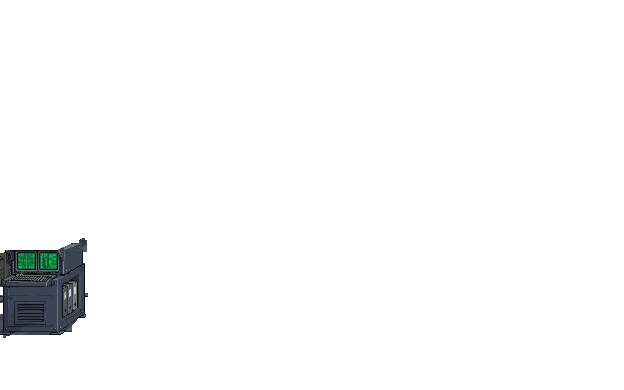
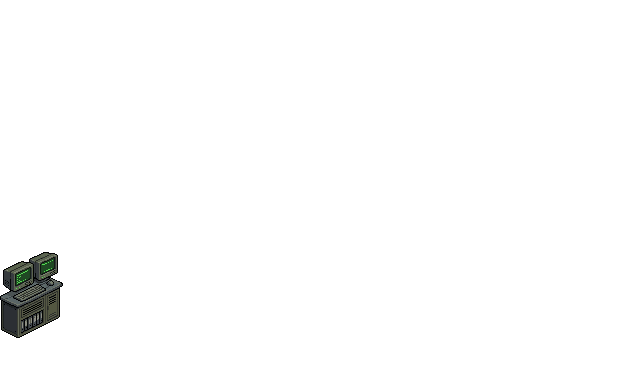
Steam store art and screenshots; War Room side stations redrawn
- Steam capsules: small, vertical, library capsule, library hero and library logo (art_src/steam_capsules, logo.py)
- tools/steam_screenshots.sh + Screenshot.tscn --store (no Feedback buttons or build label, mouse kept off the hand in fights)
- War Room: Directives is a lit wall screen over Bay 3 (DIRECTIVE_ROWS moved), new Livery Bay rack and Info Bay /
  Pilot Log terminals angled from the R&D shelf, R&D shelf without its floating hologram (art_src/warroom_right)

Claude-Session: https://claude.ai/code/session_01W7zBL8mBLAcEAZYg5R9hxA

Changed region(s): [[0.0, 0.6154, 0.1522, 0.8615]]

diff --git a/art_src/warroom_right/build.py b/art_src/warroom_right/build.py
@@ -1,0 +1,49 @@
+# The War Room's right side (PixelLab, 2026-11-11), placed into the room's layers.
+# Livery Bay starts from the left side's Research Bay, mirrored onto the
+# right wall (in_livery.png), then repainted by PixelLab edit_image (e_livery2.png),
+# so it stands against the side wall facing the war table like the left side's.
+# Directives is a PixelLab Pro piece (scr_0.png). try1/, try2/ and cands/ hold
+# earlier attempts.
+from PIL import Image
+A = '../../assets/warroom/'
+F3 = {'D':["110","101","101","101","110"], 'I':["111","010","010","010","111"], 'R':["110","101","110","101","101"],
+      'E':["111","100","110","100","111"], 'C':["011","100","100","100","011"], 'T':["111","010","010","010","010"],
+      'V':["101","101","101","101","010"], 'S':["011","100","010","001","110"]}
+def stencil(img, text, cx, y, ink, shadow):
+    w = len(text) * 4 - 1; x0 = cx - w // 2
+    for i, ch in enumerate(text):
+        for r, row in enumerate(F3[ch]):
+            for c, bit in enumerate(row):
+                if bit == '1':
+                    img.putpixel((x0 + i * 4 + c, y + r + 1), shadow)
+        for r, row in enumerate(F3[ch]):
+            for c, bit in enumerate(row):
+                if bit == '1':
+                    img.putpixel((x0 + i * 4 + c, y + r), ink)
+# Directives: a wall screen (PixelLab Pro, scr_0.png), stretched to the bay's height by repeating a band
+# of its glass, the glass darkened so the dailies read, then the header stenciled. Drawn at Rect2(437, 124, 120, 116).
+import numpy as np
+src = np.asarray(Image.open('scr_0.png').convert('RGBA'))[2:105]          # its 103 rows
+tall = np.concatenate([src[:62], src[49:62], src[62:]])                    # + 13 glass rows = 116
+r, g, b = (tall[..., i].astype(int) for i in range(3))
+glass = np.zeros(r.shape, bool); glass[21:101, 18:102] = True
+dim = glass & (g - r > 40) & (b - r > 40) & (g < 170)                     # the glass, not its lit edge strips
+tall = tall.copy(); tall[dim, :3] = (tall[dim, :3] * 0.42).astype(np.uint8)
+board = Image.new('RGBA', (120, 116)); board.alpha_composite(Image.fromarray(tall), (1, 0))
+stencil(board, "DIRECTIVES", 60, 25, (120, 235, 255, 255), (8, 40, 48, 255)) # the screen's title, lit
+board.save(A + 'directives.png')
+def layer(piece, x, y, out):
+    canvas = Image.new('RGBA', (624, 390), (0, 0, 0, 0))
+    canvas.alpha_composite(Image.open(piece).convert('RGBA'), (x, y))
+    canvas.save(A + out)
+layer('e_livery2.png', 560, 122, 'livery_bay.png')
+# The two wall terminals start from the R&D shelf's lower part (in_lterm.png; mirrored for the right wall,
+# in_rterm.png), so they keep its angle, skew and edge crop; PixelLab edit_image turned them into terminals
+# (e_lterm2.png, e_rterm3.png; the cut-off shelf top fixed in a second edit, a stray fleck dropped).
+canvas = Image.new('RGBA', (624, 390)); t = Image.open('e_rterm3.png').convert('RGBA')
+canvas.paste(t, (624 - t.width, 340 - t.height), t); canvas.save(A + 'pilot_log.png')
+canvas = Image.new('RGBA', (624, 390)); t = Image.open('e_lterm2.png').convert('RGBA'); t = t.crop((0, 0, 64, 86))
+canvas.paste(t, (0, 338 - t.height), t); canvas.save(A + 'info_bay.png')
+# R&D shelf: the original (old_research_bay.png) with its floating hologram removed by PixelLab (e_rnd.png).
+canvas = Image.new('RGBA', (624, 390)); t = Image.open('e_rnd.png').convert('RGBA')
+canvas.paste(t, (0, 122), t); canvas.save(A + 'research_bay.png')

diff --git a/art_src/steam_capsules/src/logo.py b/art_src/steam_capsules/src/logo.py
@@ -1,0 +1,39 @@
+# Steam library logo: the capsules' hologram title on a transparent background.
+# Drawn on a 1x pixel grid, then scaled 2x nearest (same grid as the capsules). Usage: python logo.py out.png [s1 s2]
+import sys, numpy as np
+from PIL import Image, ImageFilter
+from holo import text_mask
+
+def logo(out_path, s1=9, s2=9, hue=(120,235,255), pad=14):
+    hue=np.array(hue,float)
+    m1=text_mask("COLLIMATORS:",s1); m2=text_mask("FRONTLINES",s2)
+    W=max(m1.shape[1],m2.shape[1])+pad*2
+    gap=s1*2+1
+    H=m1.shape[0]+gap+m2.shape[0]+pad*2
+    mask=np.zeros((H,W),bool)
+    top=pad; x1=(W-m1.shape[1])//2; mask[top:top+m1.shape[0],x1:x1+m1.shape[1]]|=m1
+    t2=top+m1.shape[0]+gap; x2=(W-m2.shape[1])//2
+    mask[t2:t2+m2.shape[0],x2:x2+m2.shape[1]]|=m2
+    # the capsules' glitch: one row of each line slips sideways
+    for r,dx in ((top+s1*3,2),(t2+s2*4+1,-2)): mask[r]=np.roll(mask[r],dx)
+    ys,_=np.mgrid[0:H,0:W]
+    rgb=np.zeros((H,W,3)); a=np.zeros((H,W))
+    mi=Image.fromarray(mask.astype(np.uint8)*255)
+    glow=np.asarray(mi.filter(ImageFilter.GaussianBlur(5))).astype(float)/255
+    ga=np.clip(glow*0.75,0,1)
+    rgb[:]=hue; a=ga
+    ring=(np.asarray(mi.filter(ImageFilter.MaxFilter(3)))>0)&~mask
+    rgb[ring]=np.array([8,40,60]); a=np.where(ring,0.9,a)
+    base=np.where(ys%2==0,1.0,0.74)
+    col=hue[None,None,:]*base[...,None]
+    hi=np.zeros((H,W),bool); hi[top:top+s1]=True; hi[t2:t2+s2]=True
+    col[hi]=np.array([220,252,255])
+    rgb[mask]=col[mask]; a=np.where(mask,1.0,a)
+    img=Image.fromarray(np.dstack([np.clip(rgb,0,255),np.clip(a*255,0,255)]).astype(np.uint8),"RGBA")
+    img=img.resize((W*2,H*2),Image.NEAREST)
+    img.save(out_path)
+    return img
+
+if __name__=="__main__":
+    s=list(map(int,sys.argv[2:4])) if len(sys.argv)>3 else [9,9]
+    im=logo(sys.argv[1],*s); print(im.size)

diff --git a/art_src/README.md b/art_src/README.md
@@ -5,5 +5,14 @@ Working files behind shipped art, kept in git so they're on every machine.
 
 - `discord_sign/` — the War Room's "Join the Discord!" sign: PixelLab plate, `stamp.py`
   (stamps the logo and lettering), candidates. The shipped art is `assets/warroom/discord_sign.png`.
-- `steam_capsules/` — Steam store capsules: `header_capsule_920x430.png`,
-  `main_capsule_1232x706.png` (current), `old/` (earlier A/B), `src/` (scenes, guides, scripts).
+- `steam_capsules/` — Steam store art: `header_capsule_920x430.png`, `main_capsule_1232x706.png`,
+  `small_capsule_462x174.png`, `vertical_capsule_748x896.png`, `library_capsule_600x900.png`,
+  `library_hero_3840x1240.png` (no title; Steam lays the logo over it), `library_logo.png` (transparent title),
+  `old/` (earlier A/B), `src/` (PixelLab scenes `scene_*.png` at half size, guides, scripts). Capsules are a
+  half-size PixelLab Pro scene (main scene `sceneA2.png` as reference), cropped, titled by `holo3.py`'s
+  `compose(..., panel=False)`, then ×2 nearest; the hero is ×5; `logo.py` draws the logo.
+- `steam_screenshots/` — the Steam page's screenshots at 1920×1080, made by `tools/steam_screenshots.sh`
+  (`tools/Screenshot.tscn --store`).
+- `warroom_right/` — the War Room's side-wall stations (Directives screen, Livery Bay, Pilot Log and Info Bay
+  terminals, the R&D shelf without its hologram): PixelLab sources, candidates and `build.py`, which writes them
+  into `assets/warroom/`. `old_*.png` are the pieces they replaced.
